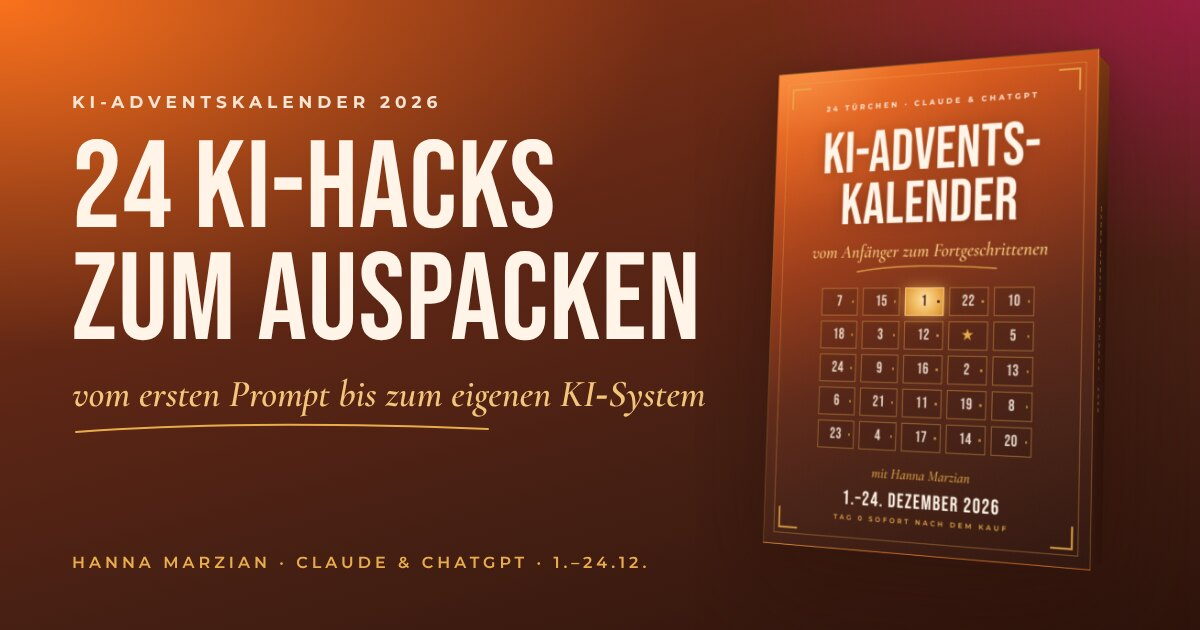
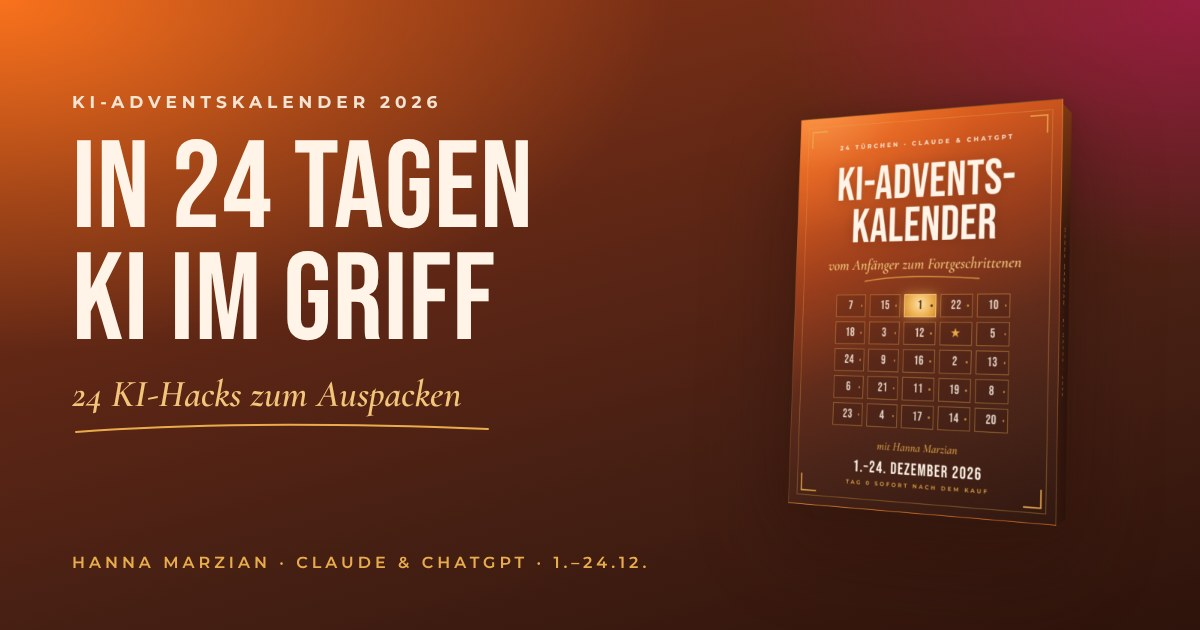
Add files via upload

diff --git a/index.html b/index.html
@@ -13,7 +13,7 @@
 <script>
   window.KALENDER = {
     preis: "29",
-    checkoutLink: ""
+    checkoutLink: "https://alfima.com/hanna_marzian/adventskalender"
   };
 </script>
 
